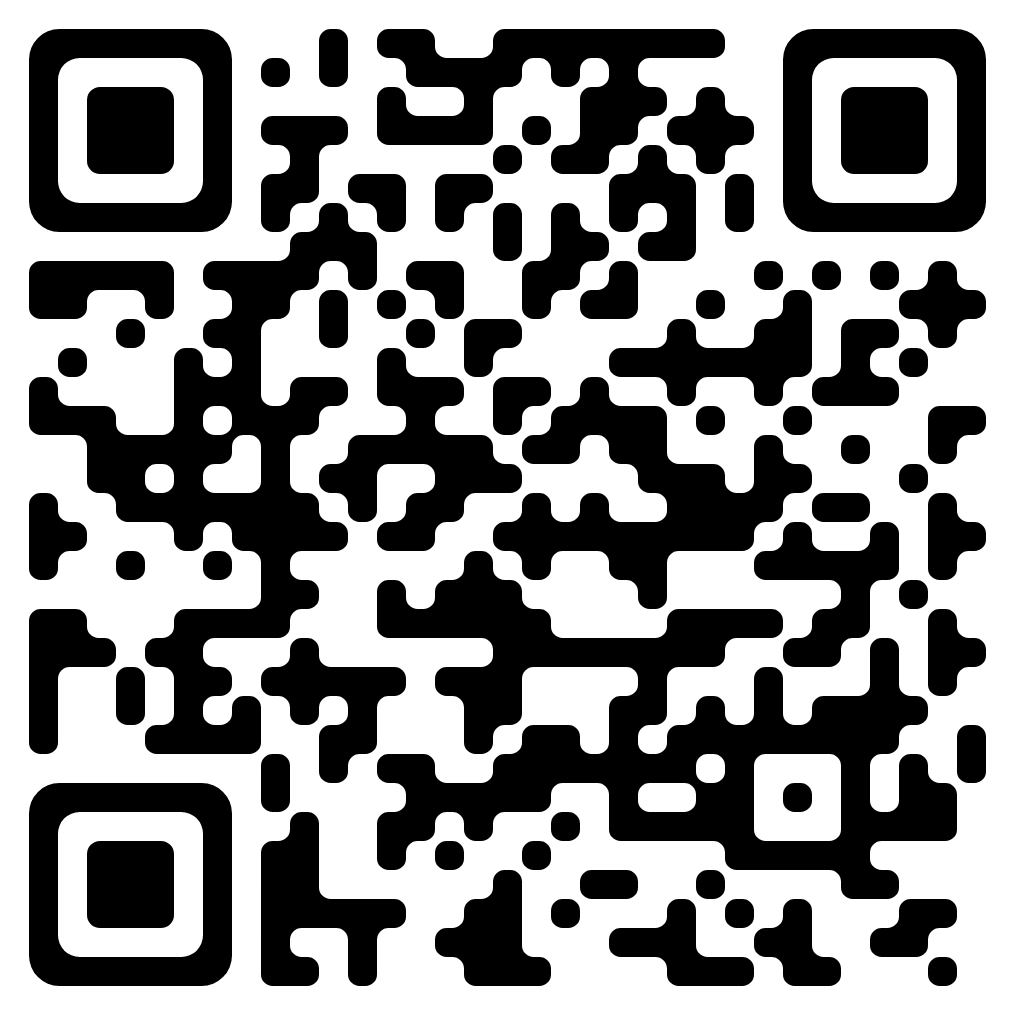
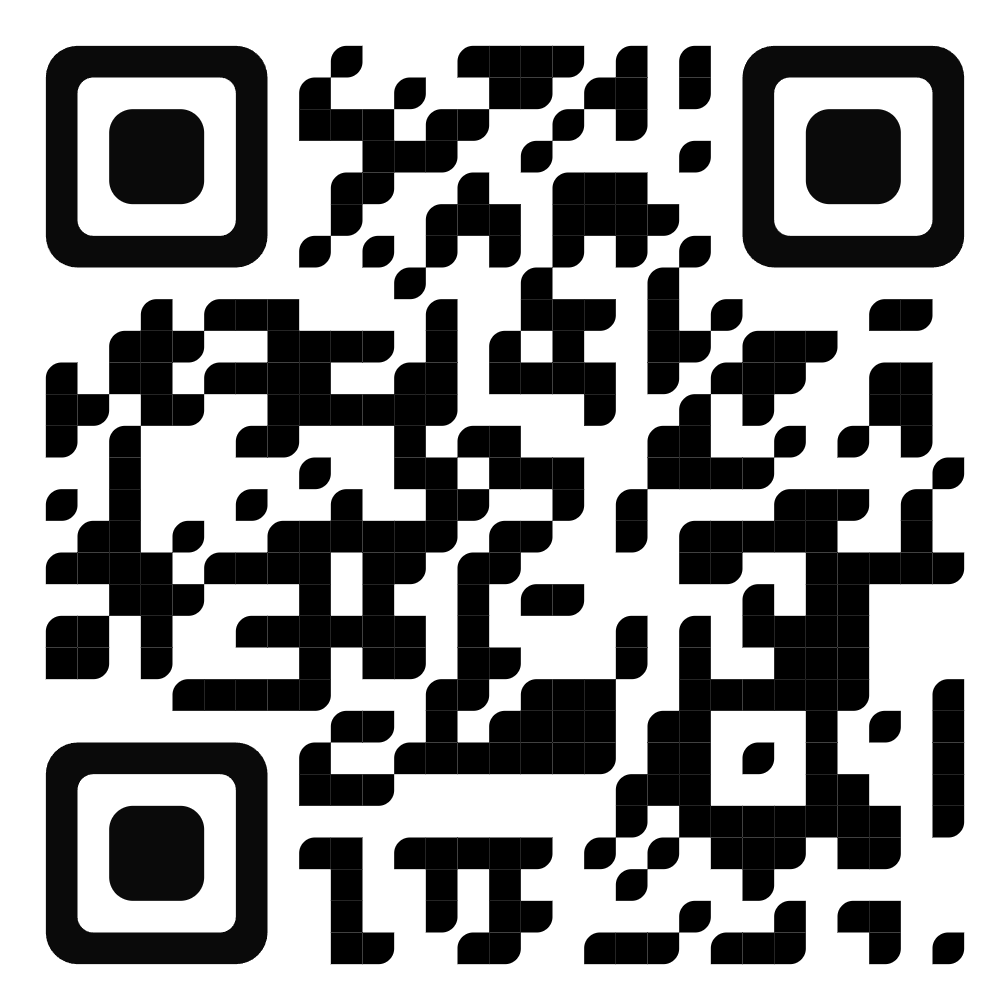
fix qrcode

diff --git a/components/layout.tsx b/components/layout.tsx
@@ -1,9 +1,12 @@
+import { useQRCode } from 'next-qrcode';
 import Link from 'next/link';
 import { ReactElement } from 'react';
 
 export function Layout(
     { children }: { children: ReactElement }
 ) {
+    const { Canvas } = useQRCode();
+
     return (
         <div className="grid grid-cols-12 grid-rows-6 h-screen gap-4 bg-white">
 
@@ -18,17 +21,41 @@ export function Layout(
                             Photo by <a href="https://unsplash.com/@joeyy_anne?utm_content=creditCopyText&utm_medium=referral&utm_source=unsplash">Joeyy Lee</a> on <a href="https://unsplash.com/photos/woman-in-white-long-sleeve-shirt-sitting-on-white-textile-on-green-grass-during-daytime-xRie5oVXYEQ?utm_content=creditCopyText&utm_medium=referral&utm_source=unsplash">Unsplash</a>
                         </div>
                     </div>
-
                 </div>
             </header>
 
             <header className="xl:col-span-3 row-span-5 hidden xl:block col-start-6 pt-4">
                 <div className='flex flex-col items-start justify-end h-full'>
-                    <img draggable={false} width={124} src="/static/qrcode.png" alt="" />
+
+                    <div className='static bg-[#f4f1e6] rounded-[72px] flex p-4 justify-center'>
+
+                        <div className='m-8'>
+                            <Canvas
+                                text={'https://download.quietly.space'}
+                                options={{
+                                    errorCorrectionLevel: 'M',
+                                    margin: 0,
+                                    scale: 4,
+                                    width: 124,
+                                    color: {
+                                        dark: '#0a0a0a',
+                                        light: '#f4f1e6',
+                                    },
+                                }}
+                            />
+                        </div>
+
+                        {/* <div className='absolute'>
+                            <svg fill="none" viewBox="0 0 24 24" stroke-width="1.5" stroke="currentColor" className="size-6">
+                                <path stroke-linecap="round" stroke-linejoin="round" d="M13.5 6H5.25A2.25 2.25 0 0 0 3 8.25v10.5A2.25 2.25 0 0 0 5.25 21h10.5A2.25 2.25 0 0 0 18 18.75V10.5m-10.5 6L21 3m0 0h-5.25M21 3v5.25" />
+                            </svg>
+                        </div> */}
+
+                    </div>
 
                     <h1 className='text-black pt-4'>Dive Into Spaces.</h1>
                     <p className='text-black'> Lorem Ipsum has been the industry's standard dummy text ever since the 1500s, when an unknown printer took a galley of type and scrambled it to make a type specimen book.</p>
-                    <button className="bg-black mt-4 hover:bg-blue-700 text-white font-bold py-3 px-12 rounded-full">
+                    <button className="bg-[#0a0a0a] mt-4 hover:bg-black text-white font-bold py-3 px-12 rounded-full">
                         join quietly
                     </button>
                 </div>
